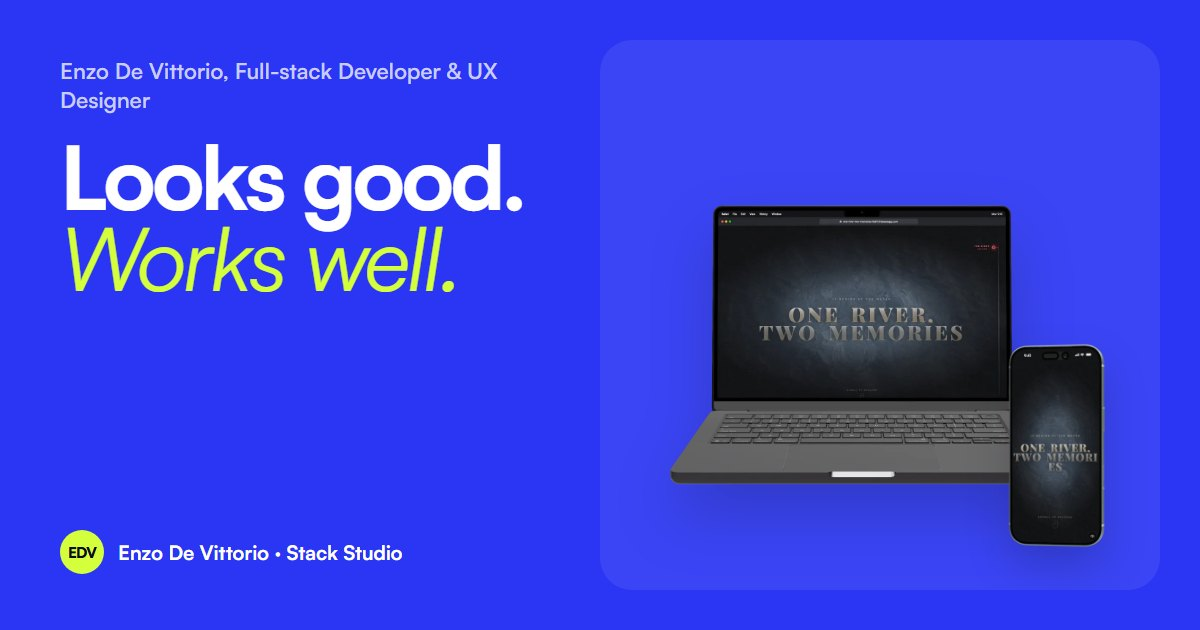
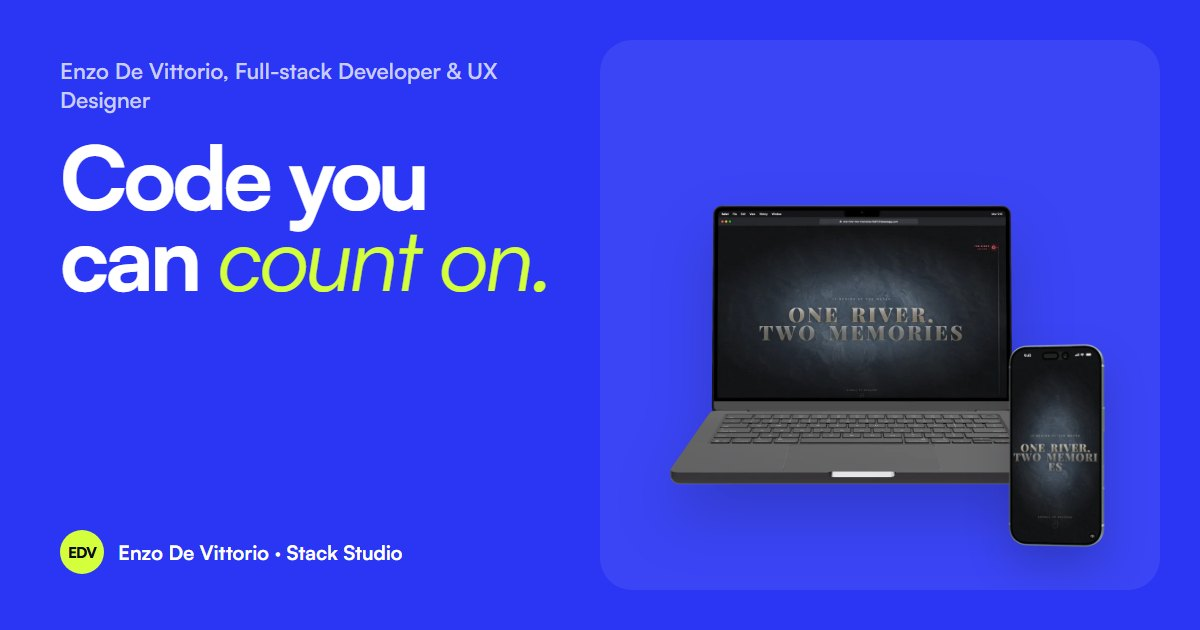
Use reliability focused homepage headline

Changed region(s): [[0.0308, 0.2111, 0.4625, 0.4825]]

diff --git a/app/content/pages.ts b/app/content/pages.ts
@@ -17,8 +17,8 @@ export const home = {
   hero: {
     eyebrow: "Full-stack Developer · UX Designer",
     // The headline, split so the last phrase takes the italic accent.
-    lead: "Looks good.",
-    accent: "Works well.",
+    lead: "Code you can",
+    accent: "count on.",
     intro:
       "I'm Enzo De Vittorio. I design and build websites and apps, from what people see to the systems behind them.",
     primary: "See the work",
